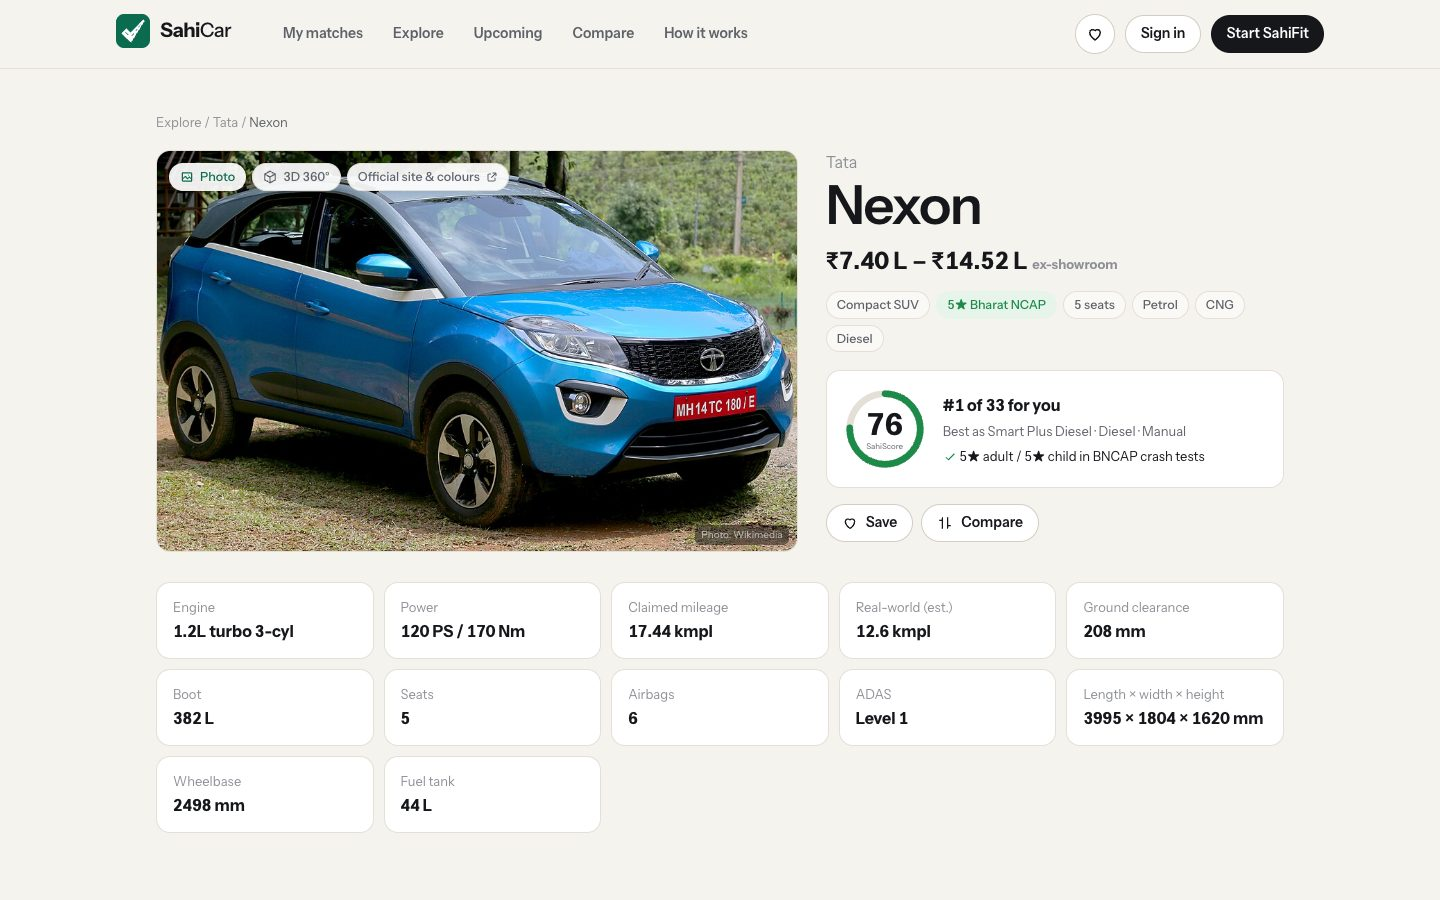
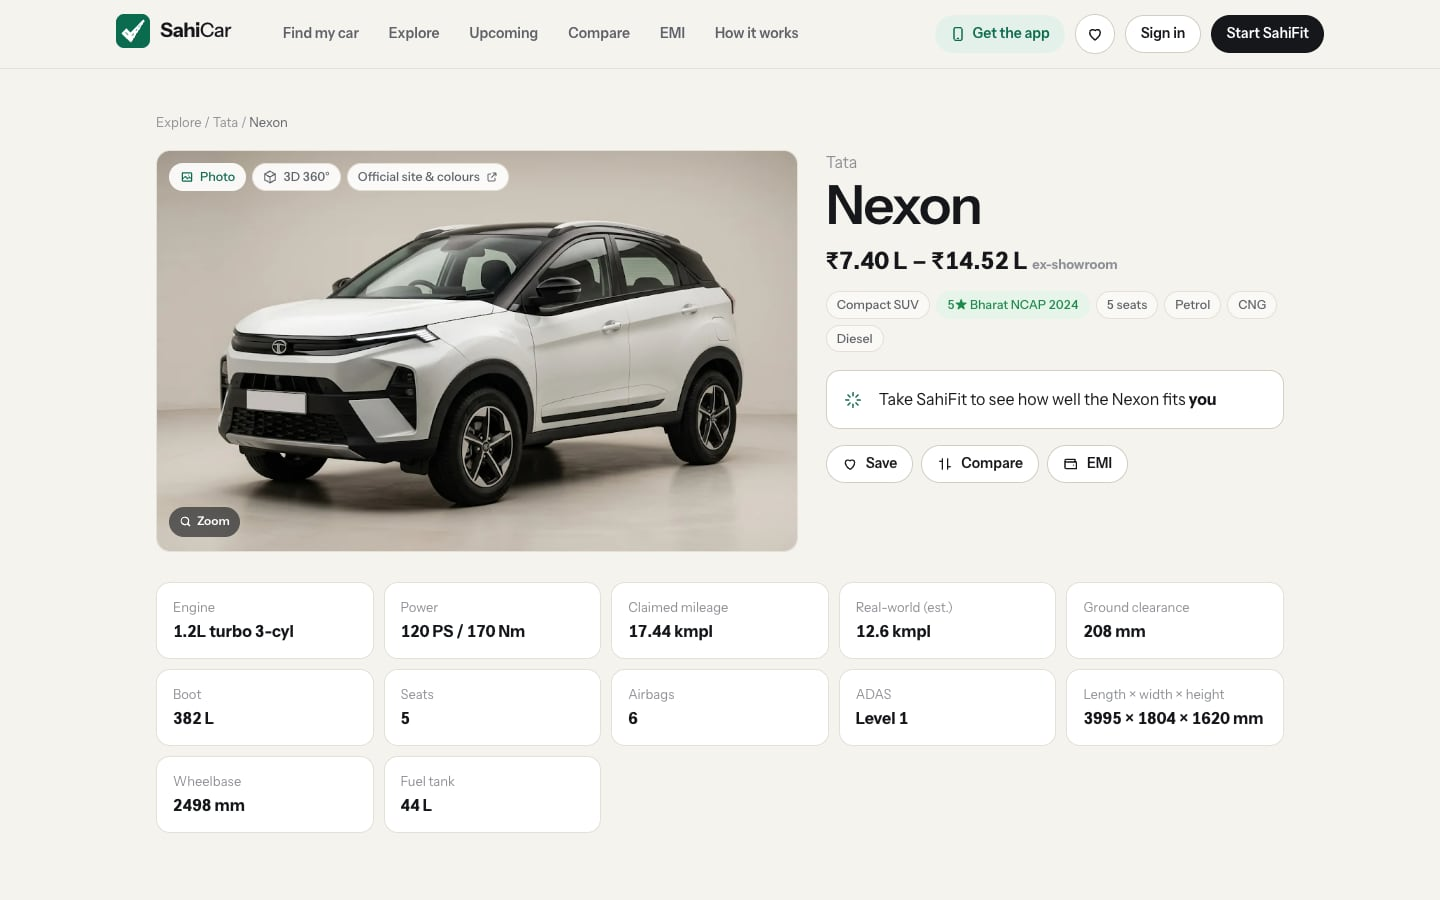
README: current features, 65 3D models, SEO and deploy pipeline, fresh screenshots

diff --git a/README.md b/README.md
@@ -1,22 +1,41 @@
 # SahiCar
 
-**The right car, honestly.** SahiCar is a free, unbiased car advisor for India. You answer the 2-minute **SahiFit** quiz and the
-**SahiScore** engine ranks every car, fuel, gearbox and variant on its 5-year cost, safety, your roads and your family. It then
-tells you whether to buy now or wait for a launch.
+**The right car, honestly.** SahiCar is a free, unbiased car advisor for India.
+- **SahiFit:** a 2-minute quiz about your budget, family, roads and use.
+- **SahiScore:** the engine that ranks every car, fuel, gearbox and variant on its 5-year cost, safety and fit for your life.
+- **Buy now or wait:** it tells you whether a launch is worth waiting for.
 
-**Live:** [sahicar-in.web.app](https://sahicar-in.web.app)
+There are no dealer leads, no sponsored rankings and no selling your number.
+
+**Live:** [sahicar-in.web.app](https://sahicar-in.web.app) · **YouTube:** [@SahiCar](https://www.youtube.com/@SahiCar) · **Instagram:** [@sahicar.official](https://www.instagram.com/sahicar.official/)
 
 ![SahiCar home: the right car, honestly, with a 3D car cycling through body styles](docs/screenshots/hero.jpg)
 
 | SahiFit quiz | Your SahiScore results |
 | --- | --- |
-| ![Step 1 of the SahiFit quiz: what can you spend, all-in](docs/screenshots/sahifit.jpg) | ![Results page: your right car is the Nexon, with the top three scored](docs/screenshots/results.jpg) |
-| **A car, scored for you** | **Every new car, one honest page** |
-| ![Car page with photo, price range, SahiScore and specs](docs/screenshots/car.jpg) | ![Explore page with filters and scored car cards](docs/screenshots/explore.jpg) |
+| ![Step 1 of the SahiFit quiz: what can you spend, all-in](docs/screenshots/sahifit.jpg) | ![Results page: your right car is the Nexon, with the top picks scored](docs/screenshots/results.jpg) |
+| **A car, scored for you** | **Its photo-measured 3D model** |
+| ![Tata Nexon page with photo, price range, specs and crash rating](docs/screenshots/car.jpg) | ![Hyundai Creta in the 3D studio, with paint colours and front, side, rear and top views](docs/screenshots/car-3d.jpg) |
+| **Every new car, one honest page** | **What it will cost you each month** |
+| ![Explore page with filters and car cards](docs/screenshots/explore.jpg) | ![EMI calculator with lender rates and an affordability check](docs/screenshots/emi.jpg) |
+| **Every car coming to India** | **On a phone** |
+| ![Upcoming launches with timing and expected prices](docs/screenshots/upcoming.jpg) | <img src="docs/screenshots/mobile.jpg" width="300" alt="SahiCar on a phone: the hero with a 3D sedan and its category card" /> |
 
-<p align="center"><img src="docs/screenshots/mobile.jpg" width="300" alt="SahiCar on a phone: the hero fits the screen with the car and its category card" /></p>
+The strategy, competitor research, the algorithm in full and the roadmap are in [docs/STRATEGY.md](docs/STRATEGY.md).
 
-The strategy, competitor research, 10 name options, a full description of the algorithm and the roadmap are in [docs/STRATEGY.md](docs/STRATEGY.md).
+## What's in it
+
+| | |
+|---|---|
+| **144 new cars, 21 brands** | Ex-showroom prices for every variant, on-road estimates by state, 5-year running cost, Bharat NCAP / Global NCAP ratings, a best-value variant pick and a plain-words verdict. Verified November 2026. |
+| **SahiFit + SahiScore** | 9 questions, 11 sub-scores, your top 3 (and the rest), shareable results, and "buy now or wait" timing against 41 tracked launches. |
+| **65 photo-measured 3D models** | A 360° studio on the car page with real paint colours, lights and views. Each model is traced from photos and calibrated to official dimensions (method below). Every other car shows its body style at its real size. |
+| **Photos and galleries** | Wikimedia Commons photos (credited), plus AI-generated studio renders for 76 cars and gallery shots for some. |
+| **Explore, Compare, Upcoming** | Filter by budget, body, fuel, brand, 7 seats and 5-star rating. Compare up to 3 cars. See launches due in the next 3 months. |
+| **EMI calculator** | EMI, down payment and total interest for any car, rates across lenders, and an "can you afford it?" check. |
+| **App, no store needed** | Installs from the browser on Android and iPhone, opens full-screen and works on a weak signal or offline. |
+| **Garage and price alerts** | Save cars (synced when signed in). Push alerts arrive when a saved car's price changes or a tracked car launches. |
+| **Weekly auto-update** | Every Monday a GitHub Action researches launches and price changes and opens a pull request. Nothing goes live until it is merged. See [docs/weekly-update.md](docs/weekly-update.md). |
 
 ## Run it
 
@@ -33,85 +52,103 @@ Everything works without Firebase: sign-in is hidden and the garage is kept in t
 research/cars-*.json        researched car data (see research/SCHEMA.md)
 research/upcoming.json      upcoming launches         research/timing-events.json  dates that move prices
 research/onroad.json        state road tax, fuel prices, insurance %
-research/images.json        Wikimedia photo cache     research/competitors.md      competitor & data-source research
+research/images.json        Wikimedia photo cache     research/ai-renders/         studio renders and galleries
         │
         └─ npm run data  →  src/data/*.json   (validates, normalises brands/fuels, drops bad rows; runs on every build)
 ```
 
-- `npm run images` resolves free Wikimedia Commons photos for new cars. Run `npm run data` afterwards.
-- `npm run test:engine` runs SahiScore for seven typical Indian buyers and prints their top 3, so you can check behaviour after changing data or weights.
+- `npm run images` finds free Wikimedia Commons photos for new cars. Run `npm run data` afterwards.
+- `npm run ai-renders` adds studio renders and gallery shots from `research/ai-renders/` (watermark removed, cropped to 16:10) to `public/cars/`.
+- `npm run test:engine` runs SahiScore for seven typical Indian buyers and prints their top 3. Use it to check behaviour after changing data or weights.
+- `npm run weekly` runs the weekly update locally. The scheduled version runs on GitHub Actions.
 
-To update prices, edit the research JSON (or have an agent re-research a brand) and rebuild. Keep `verifiedOn` and `sources` honest.
+To update prices by hand, edit the research JSON and rebuild. Keep `verifiedOn` and `sources` honest.
 
-## Official car images
+## 3D cars
 
-`scripts/official-images.mjs` visits each car's official page in headless Chrome, scores the candidate images and
-self-hosts the best as small WebP files in `public/cars/`. It prefers the studio cut-outs used in colour pickers,
-then plain studio backdrops. The app uses them automatically, on a studio backdrop with a reflection, and falls back to the Wikimedia photo.
+Each modelled car is a procedural, lofted body built from a `CarSpec` in `src/webgl/cars/exact.ts`. There are no downloaded models, no logos and blank number plates. The method is in [scripts/trace/PLAYBOOK.md](scripts/trace/PLAYBOOK.md):
 
-```bash
-npm run official:collect          # all cars (resumes; --force to redo), or pass ids: npm run official:collect -- tata-altroz
-npm run official:pick             # download, score, convert to WebP
-npm run official:sheet            # contact sheets in research/sheets/ to check the picks by eye
-npm run data                      # rebuild the app data
-```
+1. **Measure the side:** cut the car out of a side photo and trace its silhouette (`scripts/trace/extract-side.cjs`).
+2. **Write the spec:** official dimensions and tyres, with the shape from the photo.
+3. **Score it:** `scripts/trace/compare-side.cjs` measures the overlap (IoU) with the photo. The target is ≥ 0.94 overall and ≥ 0.90 for the upper half.
+4. **Check details:** `scripts/trace/ncmp.cjs` compares lamps, colour and wheels against photos.
+5. **Ship:** add the id to `READY` in `src/webgl/cars/specs.ts`, then run `node scripts/posters.cjs <id>`. That makes the small loading poster shown while the 3D builds.
 
-- **Wrong pick:** pin the right image URL in `research/official-overrides.json` (`{ "car-id": "https://…" }`, or `null` to skip a car).
-  When `cars.json` only knows a homepage, add the model page to `research/official-pages.json`.
-- **Tata pages:** in Oct 2026 `cars.tatamotors.com` and `ev.tatamotors.com` served an expired TLS certificate. The script does not bypass
-  certificate checks, so for Tata use press-release pages on `www.tatamotors.com`; the Altroz and Sierra pages are already listed.
-- **Permission:** manufacturer images are copyrighted. Credit stays on every image, but get permission from each brand's
-  press office before going public, or delete `research/official-images.json` to go back to the free Wikimedia photos.
+## Search (SEO)
+
+- **Pre-rendering:** `npm run build` ends with `scripts/prerender.mjs`. It opens every sitemap page in headless Chrome and saves the finished page as static HTML (`dist/car/<id>.html` and so on). Search engines and slow phones get the real content first, and the app then takes over without a flash (`src/main.tsx`).
+- **Meta per page:** each page sets its own title, description, canonical address, Open Graph tags and JSON-LD (Car, BreadcrumbList, Organization) through `src/lib/seo.ts`.
+- **Real 404s:** unknown addresses return status 404. App-only pages (garage, results, login) are served the plain shell and are blocked in robots.txt.
+- **Sitemap:** `public/sitemap.xml` is rebuilt on every build, with each car's last-verified date.
+- **IndexNow:** after each deploy, `scripts/indexnow.mjs` notifies Bing and the other IndexNow engines of every page. The key file is `public/<key>.txt`.
+
+## Deploy
+
+Pushing to `main` runs `.github/workflows/deploy.yml`:
+1. **Build:** data, sitemap, type check, Vite build and pre-render. A broken build never goes live.
+2. **Deploy** to Firebase Hosting.
+3. **Notify IndexNow.**
+4. **Send push alerts** for price changes and launches, when the car data changed.
+
+Other workflows:
+- `weekly-update.yml`: the Monday research pull request.
+- `push-alert.yml`: send one alert by hand.
+- `weekly-test-email.yml`: preview the report email.
 
 ## Firebase (free Spark plan)
 
 1. Create a project at console.firebase.google.com (Spark plan) and add a Web app.
-2. In Authentication, enable the **Google** and **Email/Password** sign-in methods, and add your domain to authorised domains.
+2. In Authentication, enable **Google** and **Email/Password** sign-in, and add your domain to the authorised domains.
 3. Create a **Firestore** database in production mode.
 4. Copy `.env.example` to `.env.local` and fill in `VITE_FIREBASE_*`.
 5. Put your project id in `.firebaserc`, then run:
 
 ```bash
 npx firebase login
-npm run deploy         # builds, then deploys hosting + firestore rules
+npm run deploy         # builds (with pre-render), then deploys hosting + firestore rules
 ```
 
 To develop against the local emulators, set `VITE_FIREBASE_EMULATORS=1` and `VITE_FIREBASE_PROJECT_ID=demo-sahicar` in `.env.development.local`, then run `npm run emulators`.
 
-Firestore holds only `users/{uid}` (name, email, SahiFit answers) and `users/{uid}/garage/{carId}`. Only the owner can read or write them; see [firestore.rules](firestore.rules).
+Firestore holds only `users/{uid}` (name, email, SahiFit answers), `users/{uid}/garage/{carId}` and push subscriptions. Only the owner can read or write their data; see [firestore.rules](firestore.rules).
 
 ## Code map
 
 | Path | What |
 |---|---|
-| `src/engine/sahiscore.ts` | The recommendation engine: configurations, filters, 11 sub-scores, weights, penalties, top-3 |
+| `src/engine/sahiscore.ts` | The recommendation engine: configurations, filters, 11 sub-scores, weights, penalties, top 3 |
 | `src/engine/costs.ts` | On-road price, real-world efficiency, EMI, resale, 5-year total cost |
 | `src/engine/timing.ts` | Buy now / consider waiting / wait |
-| `src/engine/answers.ts` | SahiFit questions' shape and defaults |
-| `src/webgl/cars/loft.ts` | Lofted car bodies: side profile, plan-view taper and rounded sections, tagged paint/cladding/roof/pillar/glass |
-| `src/webgl/cars/specs.ts` | The five showcase cars, traced from side/front/rear photos on a pixel grid and calibrated to published dimensions (see the file header for the method) |
-| `src/webgl/cars/models.ts` | Optional slot for licensed exact `.glb` models; they replace the procedural car once downloaded |
-| `src/webgl/cars/build.ts` | Turns a spec into a car: lofted body with shoulder crease and plan-view nose curve, raked pillars, cladding, traced lamp/grille outlines projected onto the body, wheels, Indian plates; merged by material |
-| `src/webgl/HeroWorld.ts` | Landing hero: five body-style cars cycling in place every 2 s (SUV → Sedan → EV → Hatchback → MPV), framed inside the measured stage on any screen, adaptive quality, stops when scrolled away |
-| `src/webgl/Studio.ts`, `env.ts` | The 3D 360° studio on car pages, and procedural studio/night lighting (no HDR download) |
-| `/dev/cars?car=…&shot=side\|front\|rear\|f34` | Dev-only long-lens shots for comparing a model against its reference photos |
-| `src/pages/*` | Landing, Wizard, Results, CarDetail, Explore, Compare, Upcoming, Garage, Login, About |
+| `src/engine/answers.ts` | The SahiFit questions' shape and defaults |
+| `src/webgl/cars/exact.ts` | The photo-measured `CarSpec`s (65 live) |
+| `src/webgl/cars/specs.ts` | Showcase likenesses, the `READY` list and `SPEC_BY_ID` |
+| `src/webgl/cars/build.ts`, `loft.ts` | Turn a spec into a car: lofted body, creases, pillars, cladding, lamps and grille projected onto the body, wheels, blank plates |
+| `src/webgl/Studio.ts`, `env.ts` | The 3D 360° studio on car pages (low detail first, full detail when idle), and procedural lighting |
+| `src/webgl/HeroWorld.ts` | The landing hero: five body styles cycling, adaptive quality, stops when scrolled away |
+| `src/lib/seo.ts` | Per-page title, description, canonical, Open Graph and JSON-LD |
+| `src/lib/push.ts`, `public/sw.js` | Push alerts and the service worker (offline, instant repeat visits) |
+| `scripts/prerender.mjs`, `scripts/indexnow.mjs` | Static HTML per page at build time; IndexNow after deploy |
+| `scripts/weekly-update.mjs` | The Monday research and pull request |
+| `scripts/trace/*`, `scripts/posters.cjs` | 3D tracing, scoring, review sheets and loading posters |
+| `src/pages/*` | Landing, Wizard, Results, CarDetail, Explore, Compare, Upcoming, Emi, Garage, Login, About, HowWeScore, AppPage |
 | `src/fb/*`, `src/state/*` | Firebase (lazy-loaded), auth, persisted app state |
 
 ## Performance and reliability
 
-- **Instant first paint:** `index.html` contains a static hero, so the headline shows before any JavaScript arrives (about 1.8 s on slow 3G).
-- **Small first download:** about 15 KB of app JavaScript. three.js and the car database load only with the pages that need them.
-- **3D gating:**
-  - The 3D starts after first paint. It is skipped on Save-Data or 2G connections and when WebGL is missing; a CSS poster shows instead.
-  - It loads no models, textures or HDRs: everything is procedural, and there is no post-processing.
-  - Cars beyond the first are built when the browser is idle.
-- **Adaptive quality:** resolution follows the frame rate. If a device still can't keep up, the scene stops animating and renders only when the car changes. The 3D stops entirely once the hero is scrolled away.
-- **Failure handling:** rendering pauses in background tabs, and a lost WebGL context falls back to the poster.
+- **Instant first paint:** every public page is pre-rendered, so the real content shows before any JavaScript runs. On slow 4G, a car page's main content appears in about 1.4 s.
+- **Small first download:** three.js and the car database load only with the pages that need them.
+- **3D:**
+  - It starts after first paint, from a ~20 KB poster, at low detail first, with full detail once the browser is idle.
+  - It's skipped on Save-Data or 2G connections and when WebGL is missing.
+  - It loads no models, textures or HDRs: everything is procedural.
+- **Adaptive quality:** resolution follows the frame rate. Rendering pauses in background tabs, and a lost WebGL context falls back to the poster.
 - **Service worker:** repeat visits are instant and work offline.
 - **Overrides:** `?perf=low` and `?3d=0` force the low tier or no 3D, for testing.
 
 ## Disclaimer
 
-Prices are ex-showroom Delhi, verified October 2026, and on-road figures are estimates. Confirm with the dealer before paying. Crash ratings come from
-Bharat NCAP and Global NCAP. Photos are from Wikimedia Commons under their licences (or the manufacturer's own, credited). The landing page's five body-style cars are our own procedural likenesses of popular models, unnamed and without logos; other cars' 3D views are illustrative body styles at their real size.
+- **Prices** are ex-showroom Delhi, verified November 2026. On-road figures are estimates; confirm with the dealer before paying.
+- **Crash ratings** come from Bharat NCAP and Global NCAP.
+- **Photos** are from Wikimedia Commons under their licences, or the manufacturer's own, credited. Studio renders (shown without a photo credit) are AI-generated illustrations.
+- **3D models** are SahiCar's own procedural models, measured from photos. They carry no logos and blank number plates.
+- **The landing page's five body-style cars** are unnamed likenesses.
